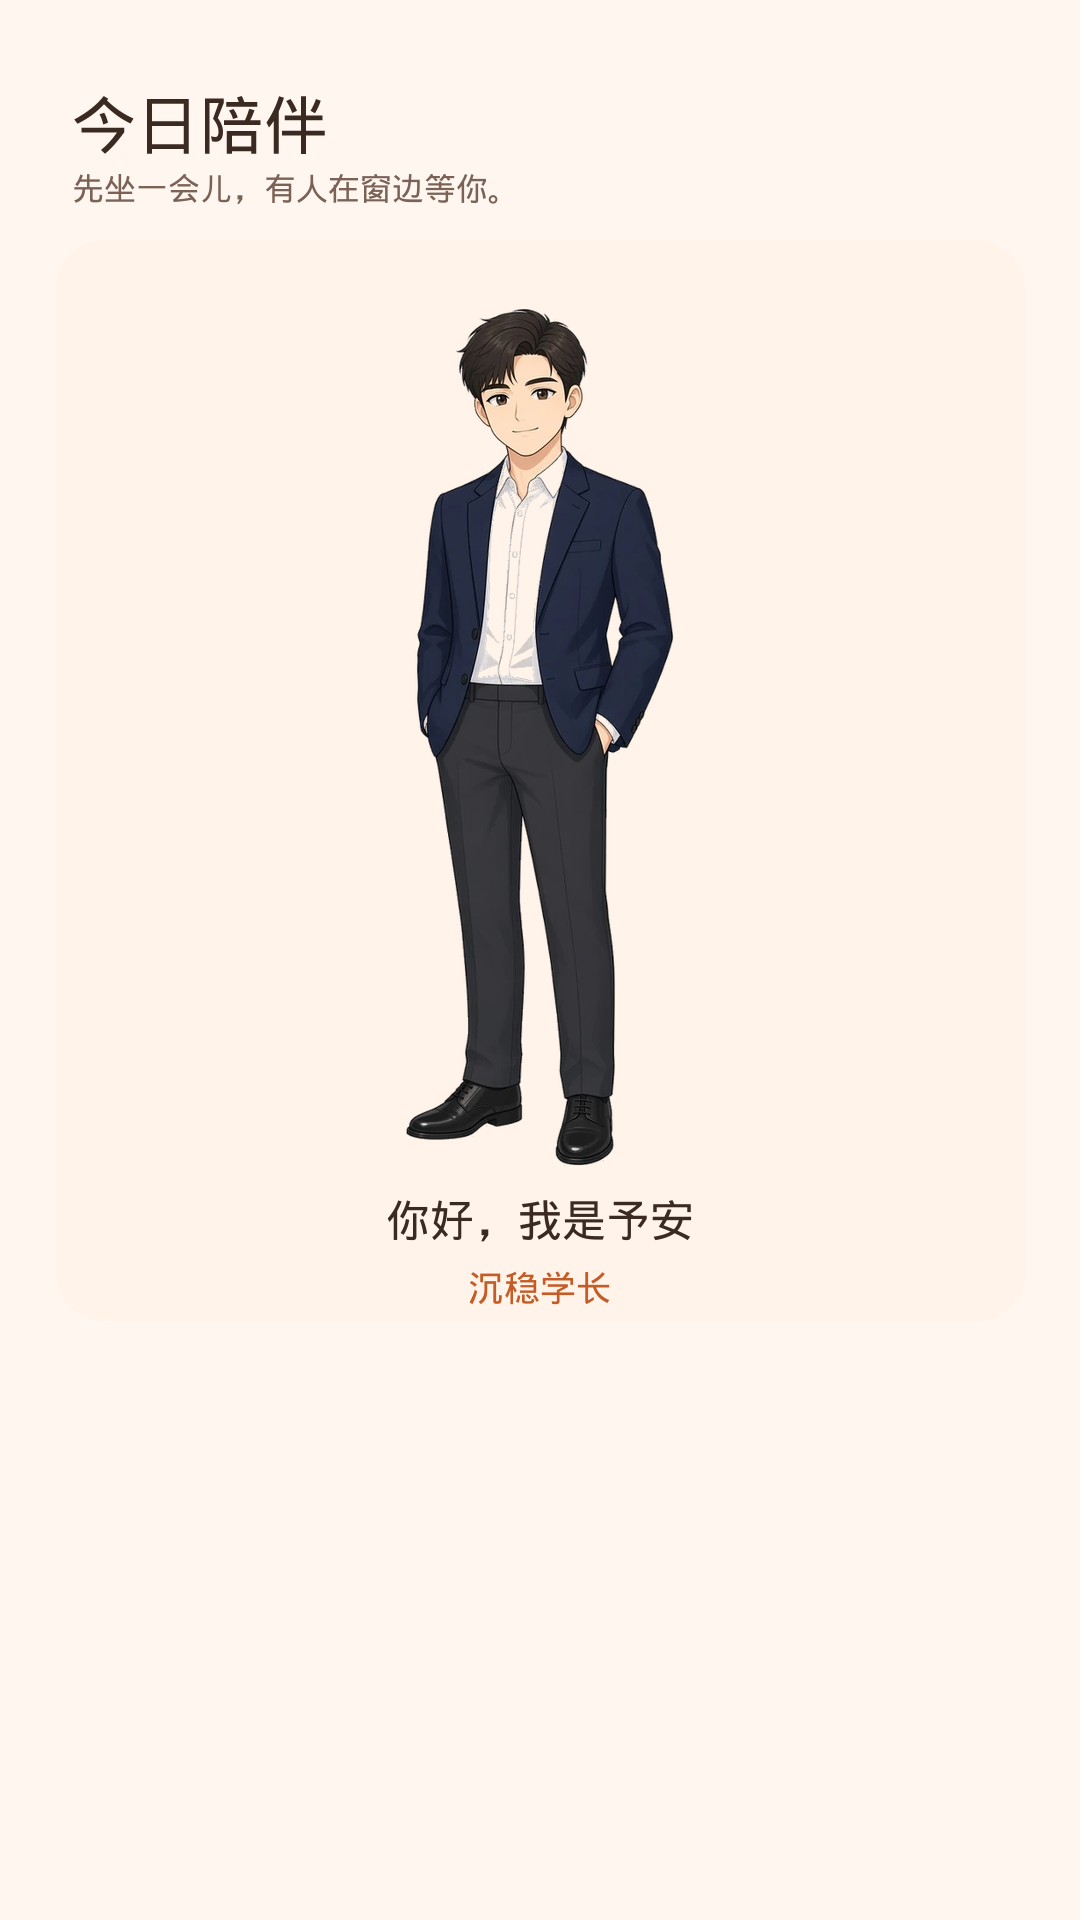
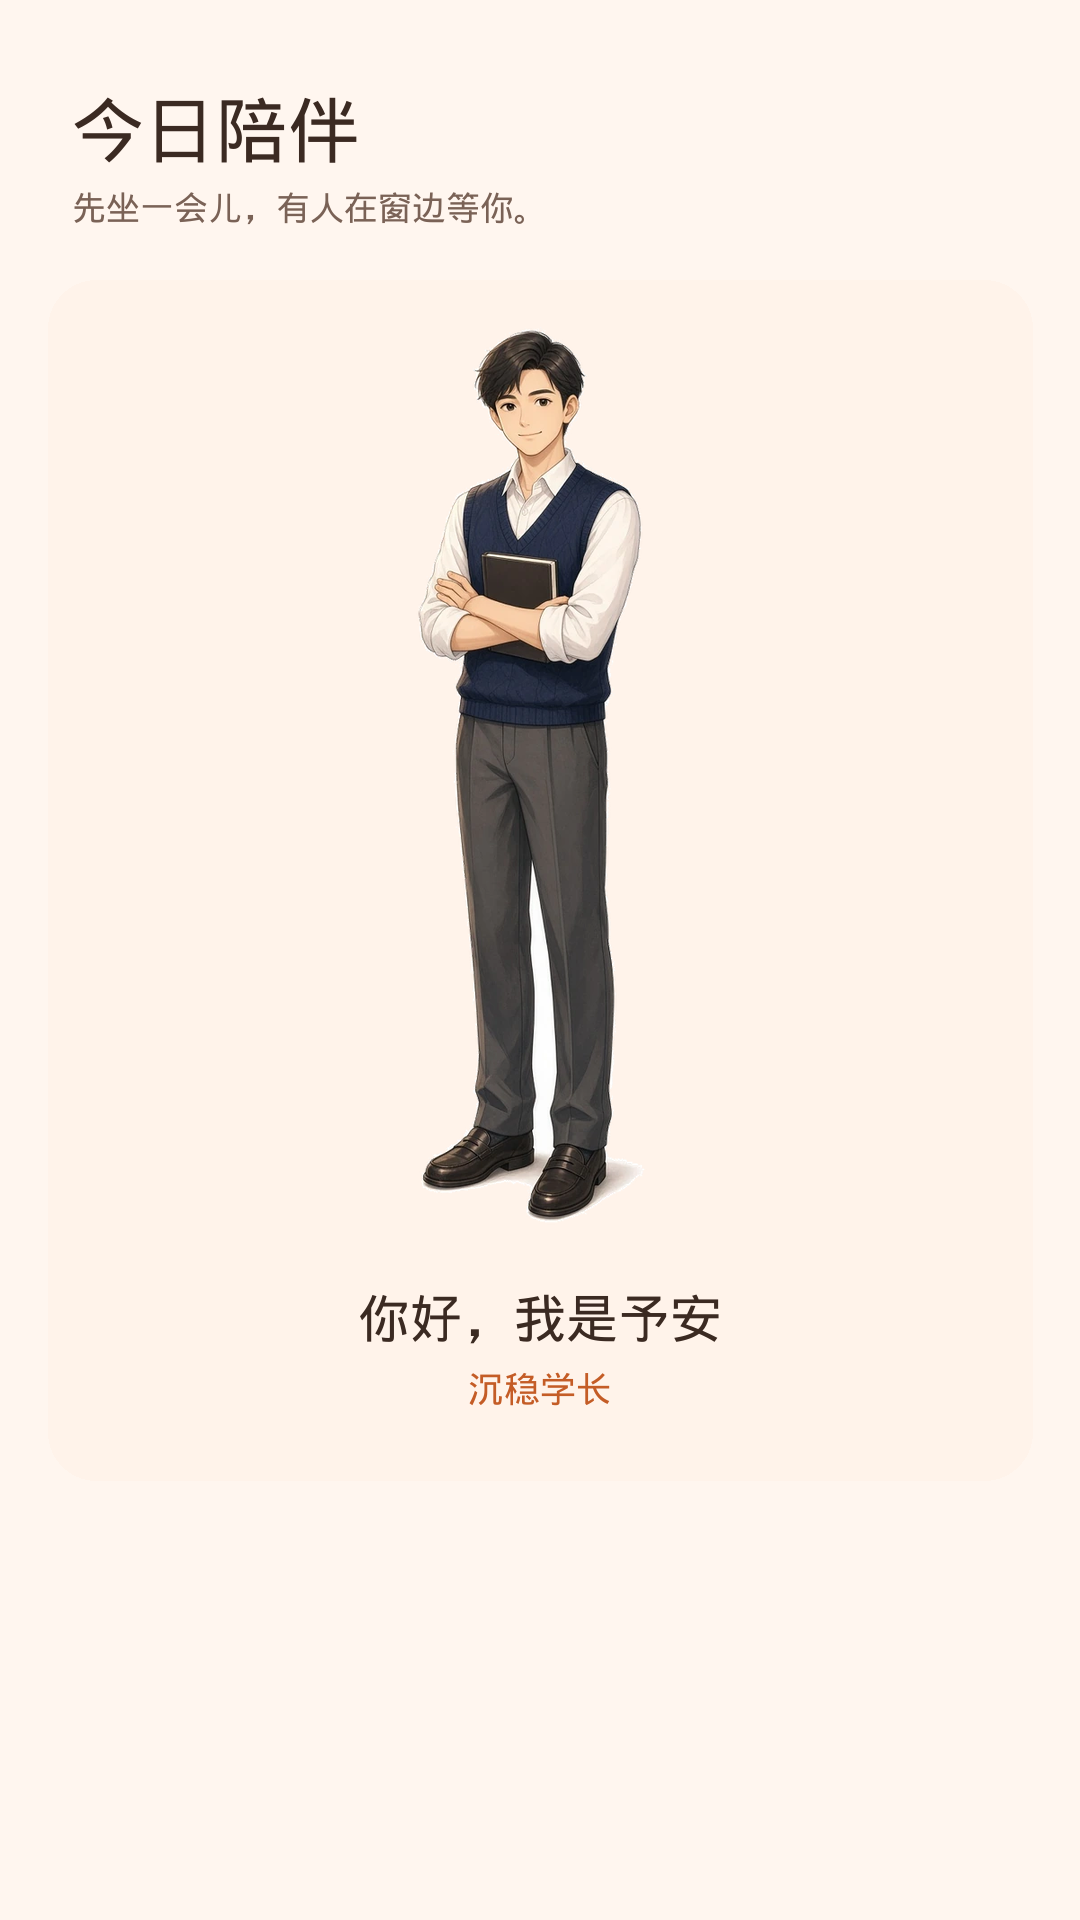
feat: 男五风格独立造型并新增成功人士
发型、体型、服装轮廓和站姿拉开差异；chenggong 走深色西装。

Changed region(s): [[0.3361, 0.1562, 0.6722, 0.75], [0.0611, 0.0312, 0.4889, 0.125]]

diff --git a/app/src/main/java/com/floatdeskpet/app/data/CharacterStyle.kt b/app/src/main/java/com/floatdeskpet/app/data/CharacterStyle.kt
@@ -16,6 +16,7 @@ enum class CharacterStyle(
     QINGSHUANG("qingshuang", true, PetSettings.OUTFIT_HOODIE),
     CHENWEN("chenwen", true, PetSettings.OUTFIT_CASUAL),
     DASHU("dashu", true, PetSettings.OUTFIT_HOODIE),
+    CHENGGONG("chenggong", true, PetSettings.OUTFIT_CASUAL),
     ;
 
     fun titleRes(): Int = when (this) {
@@ -26,6 +27,7 @@ enum class CharacterStyle(
         QINGSHUANG -> com.floatdeskpet.app.R.string.style_qingshuang
         CHENWEN -> com.floatdeskpet.app.R.string.style_chenwen
         DASHU -> com.floatdeskpet.app.R.string.style_dashu
+        CHENGGONG -> com.floatdeskpet.app.R.string.style_chenggong
     }
 
     fun blurbRes(): Int = when (this) {
@@ -36,6 +38,7 @@ enum class CharacterStyle(
         QINGSHUANG -> com.floatdeskpet.app.R.string.style_qingshuang_blurb
         CHENWEN -> com.floatdeskpet.app.R.string.style_chenwen_blurb
         DASHU -> com.floatdeskpet.app.R.string.style_dashu_blurb
+        CHENGGONG -> com.floatdeskpet.app.R.string.style_chenggong_blurb
     }
 
     val hasDedicatedArt: Boolean get() = true
@@ -84,6 +87,12 @@ enum class CharacterStyle(
                 0.00f, 0.02f, 0.70f, 0f, -20f,
                 0f, 0f, 0f, 1f, 0f,
             )
+            CHENGGONG -> floatArrayOf(
+                0.94f, 0.03f, 0.02f, 0f, -4f,
+                0.02f, 0.92f, 0.02f, 0f, -6f,
+                0.01f, 0.02f, 0.90f, 0f, -4f,
+                0f, 0f, 0f, 1f, 0f,
+            )
         }
         val matrix = ColorMatrix()
         val sat = when (this) {
@@ -94,6 +103,7 @@ enum class CharacterStyle(
             QINGSHUANG -> 1.04f
             CHENWEN -> 0.78f
             DASHU -> 0.90f
+            CHENGGONG -> 0.86f
         }
         matrix.setSaturation(sat)
         matrix.postConcat(ColorMatrix(extra))

diff --git a/app/src/test/java/com/floatdeskpet/app/data/CharacterStyleTest.kt b/app/src/test/java/com/floatdeskpet/app/data/CharacterStyleTest.kt
@@ -11,20 +11,22 @@ class CharacterStyleTest {
     }
 
     @Test
-    fun maleIncludesDashu() {
+    fun maleIncludesChenggong() {
         assertEquals(
-            listOf("wenrou", "qingshuang", "chenwen", "dashu"),
+            listOf("wenrou", "qingshuang", "chenwen", "dashu", "chenggong"),
             CharacterStyle.all(true).map { it.id },
         )
         assertEquals(CharacterStyle.DASHU, CharacterStyle.fromId("dashu", true))
+        assertEquals(CharacterStyle.CHENGGONG, CharacterStyle.fromId("chenggong", true))
         assertEquals(PetSettings.OUTFIT_HOODIE, CharacterStyle.DASHU.suggestedOutfit)
+        assertEquals(PetSettings.OUTFIT_CASUAL, CharacterStyle.CHENGGONG.suggestedOutfit)
     }
 
     @Test
     fun dedicatedArtStyles() {
         assertTrue(CharacterStyle.entries.all { it.hasDedicatedArt })
         assertEquals(
-            setOf("wenrou", "qingshuang", "chenwen", "dashu"),
+            setOf("wenrou", "qingshuang", "chenwen", "dashu", "chenggong"),
             CharacterStyle.all(true).filter { it.hasDedicatedArt }.map { it.id }.toSet(),
         )
     }

diff --git a/app/src/main/java/com/floatdeskpet/app/overlay/PetFrames.kt b/app/src/main/java/com/floatdeskpet/app/overlay/PetFrames.kt
@@ -156,6 +156,15 @@ object PetFrames {
                 sleep = R.drawable.pet_m_chenwen_blink,
                 shy = R.drawable.pet_m_chenwen_idle,
             )
+            CharacterStyle.CHENGGONG -> FrameSet(
+                idle = R.drawable.pet_m_chenggong_idle,
+                blink = R.drawable.pet_m_chenggong_blink,
+                tilt = R.drawable.pet_m_chenggong_idle,
+                tapJump = R.drawable.pet_m_chenggong_wave,
+                tapWave = R.drawable.pet_m_chenggong_wave,
+                sleep = R.drawable.pet_m_chenggong_blink,
+                shy = R.drawable.pet_m_chenggong_idle,
+            )
         }
     }
 }

diff --git a/PRODUCT.md b/PRODUCT.md
@@ -9,14 +9,14 @@
 - 自主：斜向闲逛、行走轻跳、停顿转向、弧线/两段路径、走向随机点后打盹；起步/停步缓入缓出，转向插值，打盹淡入；超时半藏探头（点按或摇一摇唤出）。
 - 本地气泡：独立悬浮层，优先在角色上方，贴边时改到侧面或下方，不遮挡身体；按时段、心情、互动和角色性别从词库抽一句，不联网。
 - 心情 / 亲密度 0–100，本地 SharedPreferences；喂食消耗本地零食计数并随时间回复。
-- 角色：二次元 Q 版成年陪伴，健康向。女生风格御姐 / 萝莉 / 清纯风（日常 / 睡衣 / 出行），男生风格温柔邻家 / 清爽少年 / 沉稳学长 / 大叔（日常 / 出行）。入驻选性别再起名，不确定时默认他；不取名从名字册选。今日陪伴与右侧菜单里可改。
+- 角色：二次元 Q 版成年陪伴，健康向。女生风格御姐 / 萝莉 / 清纯风（日常 / 睡衣 / 出行），男生风格温柔邻家 / 清爽少年 / 沉稳学长 / 大叔 / 成功人士（日常 / 出行）。入驻选性别再起名，不确定时默认他；不取名从名字册选。今日陪伴与右侧菜单里可改。
 - 语音：可选系统 TextToSpeech 读气泡，按性别选声线，缺声线时调音高/语速；静音同时关掉音效和语音。不申请 `INTERNET`，无云 TTS。
 - 短音效可静音。
 - 数据：纯本地。本机 mock 账号 / 幸福点，无广告、无云、无 AI 对话。核心功能不声明 `INTERNET`。
 - 系统：仅 Android。`minSdk 26`，`targetSdk 34`，`applicationId = com.floatdeskpet.app`。
 - 运行：前台服务 + 常驻通知（运行中 / 显隐 / 退出，标题带自定义名字）。退出时卸窗并停服务。
 - 今日陪伴：大角色、心情一句、权限卡片；右下角菜单收纳换装/外观/召唤/开关。我的小窝看称呼、账号、幸福点。
-- 1.3：本机登记走进来；今日陪伴；风格芯片；幸福点；首次四页引导；男风格含大叔。
+- 1.3：本机登记走进来；今日陪伴；风格芯片；幸福点；首次四页引导；男风格含大叔、成功人士。
 - 1.2：动作更软；男角色帧与词库；首启选性别+名字；按性别本地 TTS。
 
 ## 明确不做（v1 / v1.2）

diff --git a/README.md b/README.md
@@ -2,7 +2,7 @@
 
 一只浮在其它应用上面的 Android 桌宠。本地运行，不联网、没有广告。
 
-第一次打开先看几页引导，再留下账号（只在本机），然后选陪伴、起名字。登录后进入「今日陪伴」。女角色风格：御姐 / 萝莉 / 清纯风；男角色：温柔邻家 / 清爽少年 / 沉稳学长 / 大叔。不取名时会从名字册里选一个。可拖动、点一下会跳/眨眼，待机会走路、打盹、躲到屏幕边上探头。打开穿透后触摸会穿过桌宠，方便点底下的微信或浏览器。
+第一次打开先看几页引导，再留下账号（只在本机），然后选陪伴、起名字。登录后进入「今日陪伴」。女角色风格：御姐 / 萝莉 / 清纯风；男角色：温柔邻家 / 清爽少年 / 沉稳学长 / 大叔 / 成功人士。不取名时会从名字册里选一个。可拖动、点一下会跳/眨眼，待机会走路、打盹、躲到屏幕边上探头。打开穿透后触摸会穿过桌宠，方便点底下的微信或浏览器。
 
 ## 环境
 
@@ -80,7 +80,7 @@ adb install -r releases/float-deskpet-1.3.3-debug.apk
 
 要求：竖图、透明底、清晰描边，高度大约 512–1024。不要用糊掉的实拍抠图，小窗上看不清。改完重新 `./gradlew assembleDebug`。
 
-女风格独立造型：`pet_f_yujie_*` / `pet_f_luoli_*` / `pet_f_qingchun_*`。男风格：`pet_m_wenrou_*` / `pet_m_qingshuang_*` / `pet_m_chenwen_*` / `pet_m_dashu_*`。
+女风格独立造型：`pet_f_yujie_*` / `pet_f_luoli_*` / `pet_f_qingchun_*`。男风格：`pet_m_wenrou_*` / `pet_m_qingshuang_*` / `pet_m_chenwen_*` / `pet_m_dashu_*` / `pet_m_chenggong_*`。
 
 同名预览也在 `art/character/`。
 

diff --git a/docs/screenshots/README.md b/docs/screenshots/README.md
@@ -26,12 +26,15 @@ adb install -r releases/float-deskpet-1.3.3-debug.apk
 - `docs/screenshots/home-qingshuang.png`
 - `docs/screenshots/home-chenwen.png`
 - `docs/screenshots/home-dashu.png`
+- `docs/screenshots/home-chenggong.png`
+- `docs/screenshots/male-styles-row.png`
 
-今日陪伴 → 右下角 →「轻轻安排」→ 角色选「男」→「更换角色风格」。
+今日陪伴 → 右下角 →「轻轻安排」→ 角色选「男」→「更换角色风格」（应出现「成功人士」芯片）。
 
 | 风格 | id | 应看到 |
 | --- | --- | --- |
-| 温柔邻家 | `wenrou` | 微卷浅发、浅杏针织 |
-| 清爽少年 | `qingshuang` | 利落短发、浅色卫衣 |
-| 沉稳学长 | `chenwen` | 侧分、深蓝外套 |
-| 大叔 | `dashu` | 更壮、短发微胡、橄榄绿衬衫 |
+| 温柔邻家 | `wenrou` | 微卷浅发、浅杏开衫、轻挥手 |
+| 清爽少年 | `qingshuang` | 利落短发、浅蓝卫衣、高挥手 |
+| 沉稳学长 | `chenwen` | 侧分、深蓝背心、抱本 |
+| 大叔 | `dashu` | 更壮、短发微胡、橄榄绿休闲、手叉腰 |
+| 成功人士 | `chenggong` | 深色西装、酒红领带、气场稳 |

diff --git a/releases/CHANGELOG.md b/releases/CHANGELOG.md
@@ -2,7 +2,9 @@
 
 ## 1.3.3
 
-- 男角色四种风格改为独立造型：温柔邻家（浅杏针织）、清爽少年（浅色卫衣）、沉稳学长（深蓝外套）、大叔（橄榄绿衬衫）
+- 男角色五种风格各自独立造型（不靠滤镜）：温柔邻家（浅杏开衫、微卷、轻挥手）、清爽少年（短发卫衣、高挥手）、沉稳学长（侧分背心抱本）、大叔（更壮、短发微胡、手叉腰）、成功人士（深色西装酒红领带）
+- 新增风格「成功人士」`chenggong`：气场稳、穿得干净，像刚开完会还能陪你坐一会儿。
+- 今日陪伴大图、轻轻安排预览、悬浮窗用同一套图
 - 归档 APK：`releases/float-deskpet-1.3.3-debug.apk`、`releases/float-deskpet-1.3.3-release.apk`
 
 ## 1.3.2
